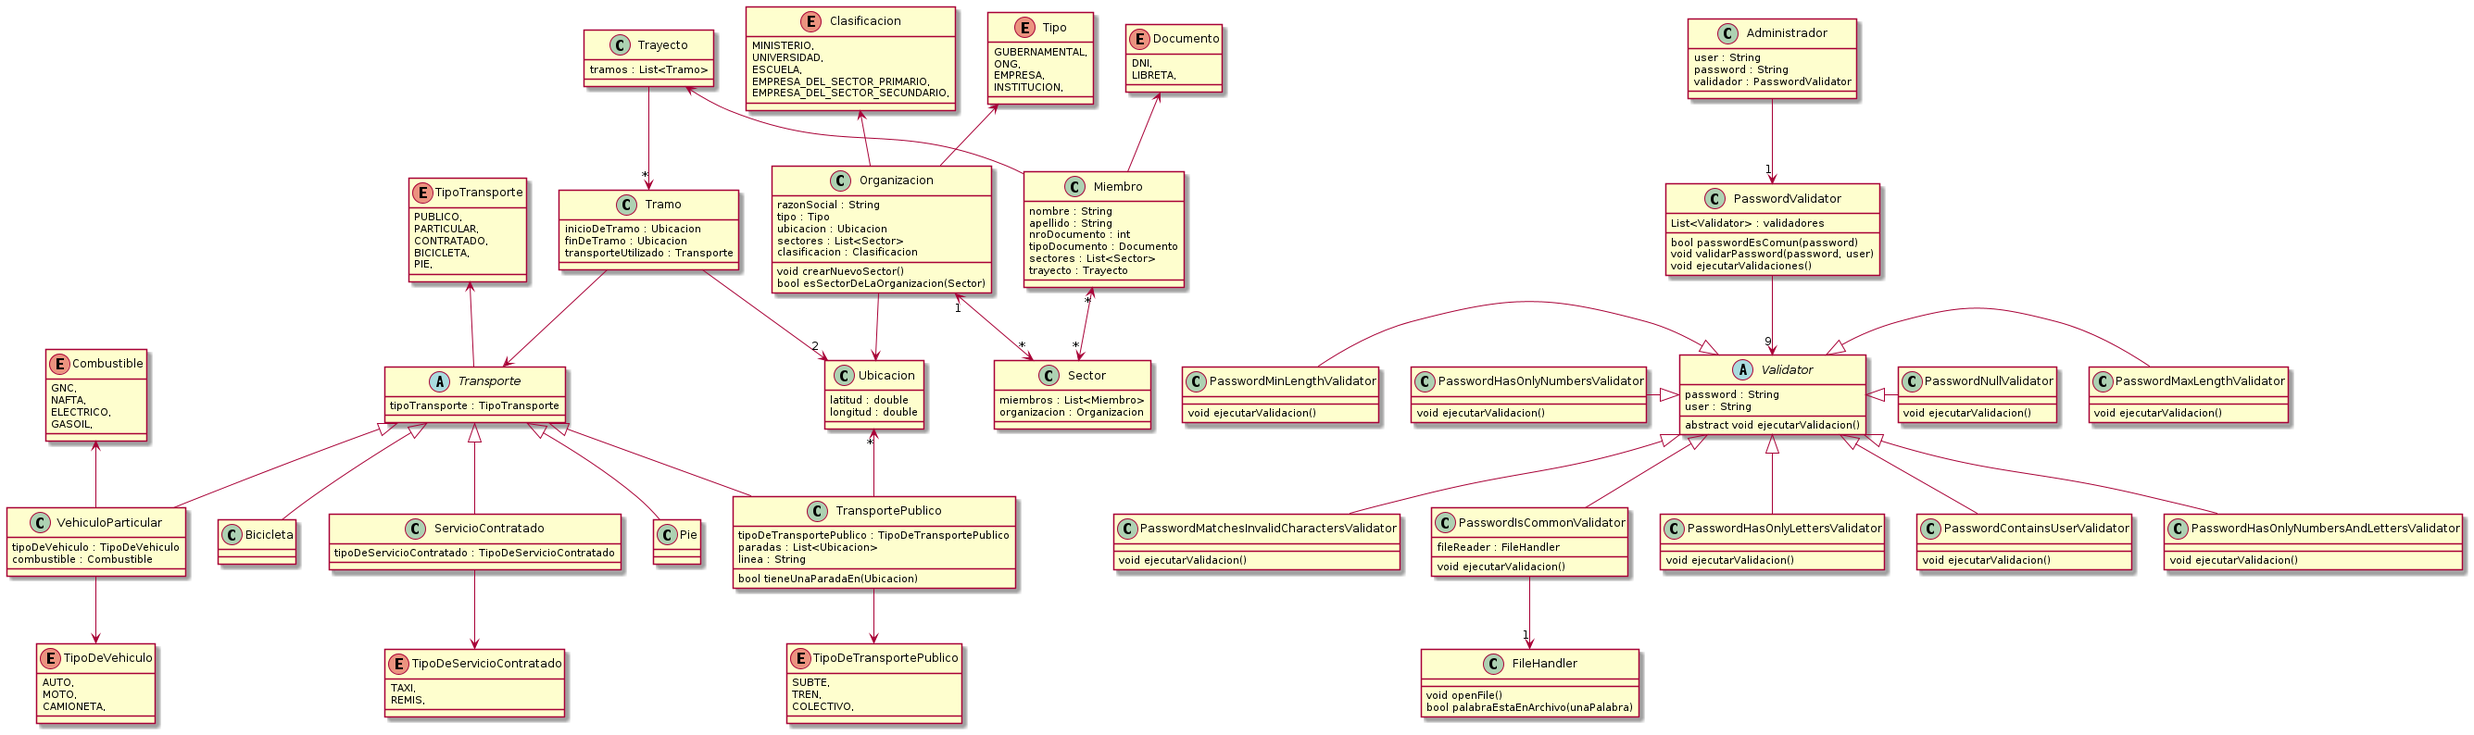
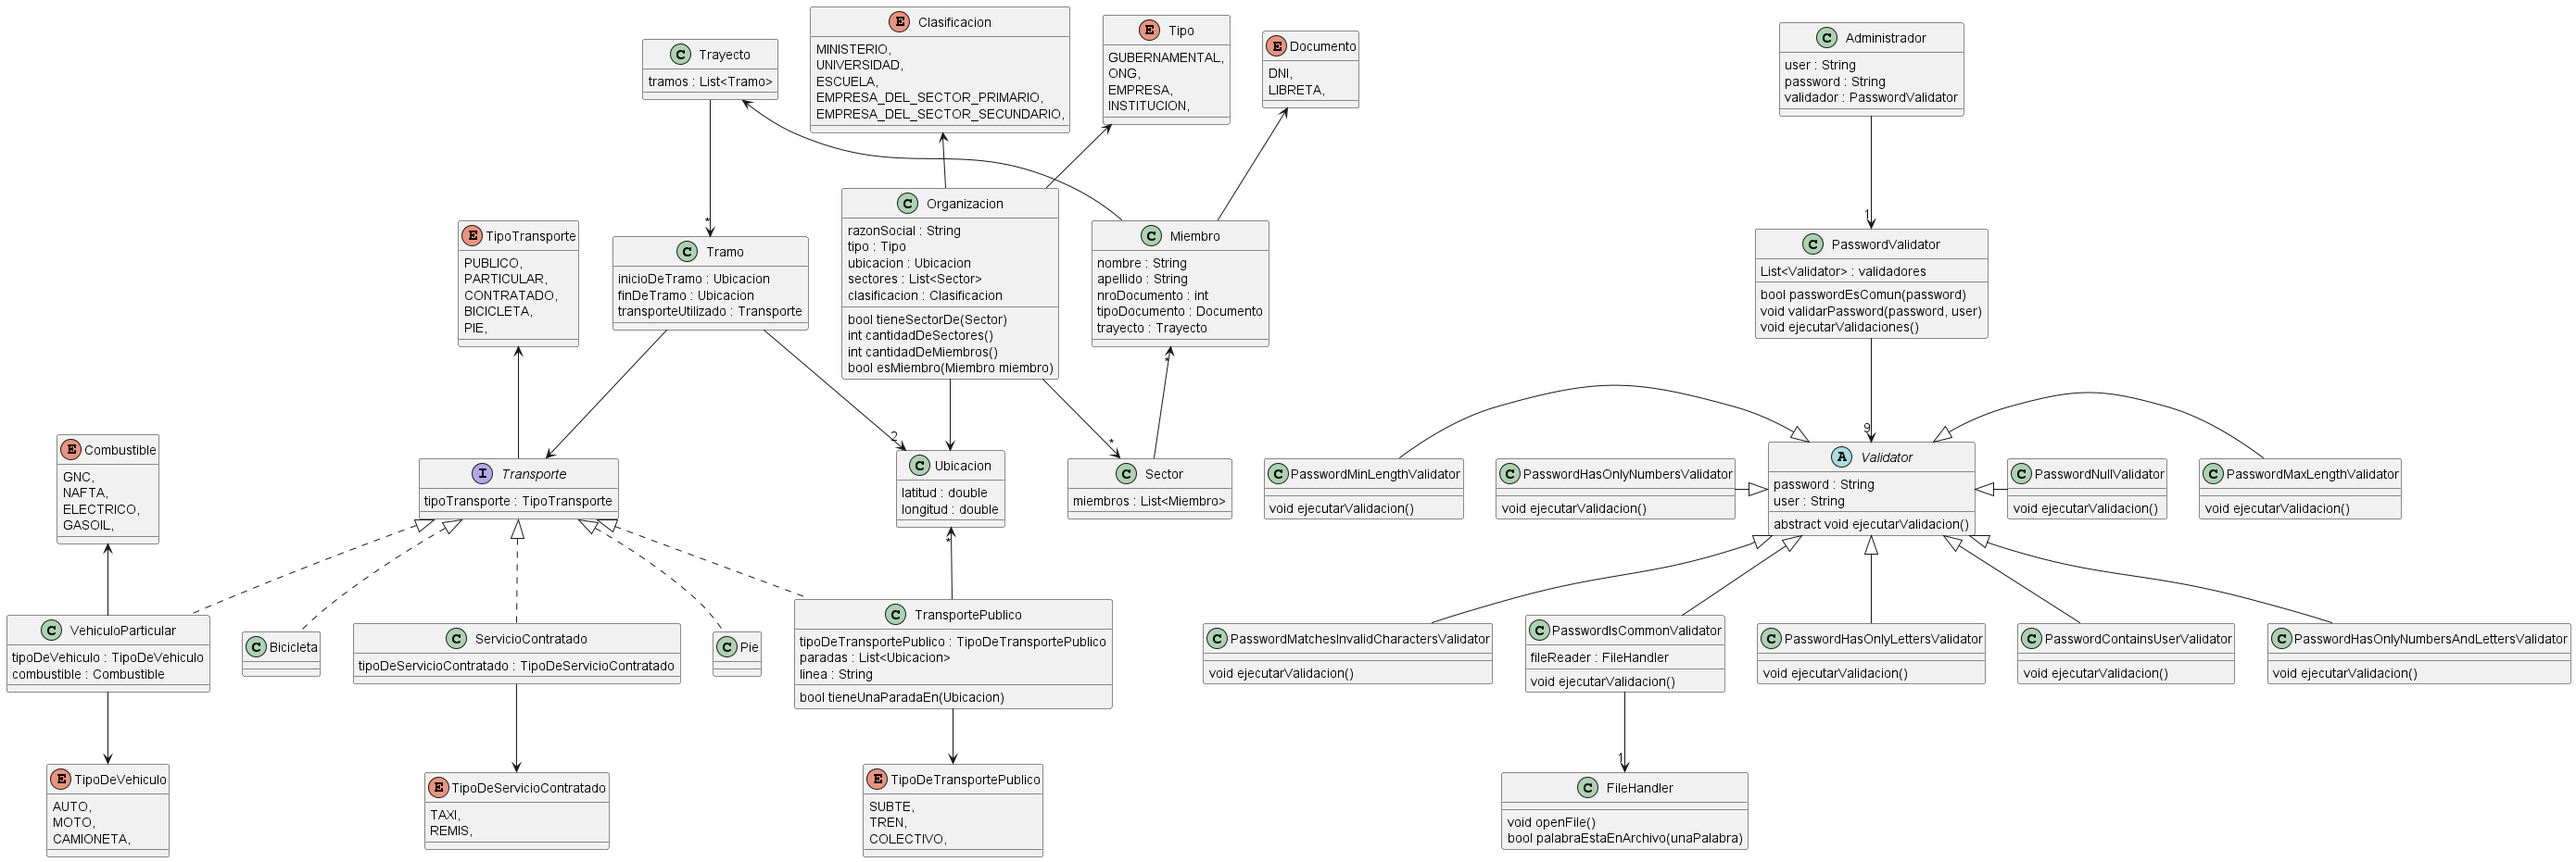
Modificado: Logica Organizacion-Sector-Miembro

diff --git a/src/test/java/domain/MiembroTests.java b/src/test/java/domain/MiembroTests.java
@@ -20,6 +20,7 @@ import java.util.HashSet;
 import java.util.List;
 
 import static org.junit.jupiter.api.Assertions.assertEquals;
+import static org.junit.jupiter.api.Assertions.assertTrue;
 
 public class MiembroTests {
   
@@ -36,9 +37,16 @@ public class MiembroTests {
     utn.addSector(unSector);
     utn.addSector(otroSector);
     org.addSector(unSectorOrgFalsa);
-    miembro1.addSector(unSector, utn);
-    miembro2.addSector(otroSector, utn);
-    miembro2.addSector(unSectorOrgFalsa,org);
+    // miembro1.addSector(unSector, utn);
+    unSector.addMiembro(miembro1);
+    utn.addSector(unSector);
+    // miembro2.addSector(otroSector, utn);
+    otroSector.addMiembro(miembro2);
+    utn.addSector(otroSector);
+    // miembro2.addSector(unSectorOrgFalsa,org);
+    unSectorOrgFalsa.addMiembro(miembro2);
+    org.addSector(unSectorOrgFalsa);
+    /*
     HashSet<Organizacion> organizaciones1 = new HashSet<>();
     organizaciones1.add(utn);
     HashSet<Organizacion> organizaciones2 = new HashSet<>();
@@ -46,6 +54,19 @@ public class MiembroTests {
     organizaciones2.add(org);
     assertEquals(miembro1.getOrganizaciones(), organizaciones1);
     assertEquals(miembro2.getOrganizaciones(), organizaciones2);
+    */
+    assertTrue(utn.esMiembro(miembro1));
+    assertTrue(utn.esMiembro(miembro2));
+    assertTrue(org.esMiembro(miembro2));
+  }
+
+  @Test
+  public void unMiembroSeCreaCorrectamente() {
+    Miembro miembro = unMiembro();
+    assertEquals(miembro.getNombre(), "Matias");
+    assertEquals(miembro.getApellido(), "Beorlegui");
+    assertEquals(miembro.getNumeroDeDocumento(), 47813065);
+    assertEquals(miembro.getTipoDeDocumento(), Documento.DNI);
   }
 
   @DisplayName("Instanciar: Miembro")

diff --git a/src/main/java/domain/miembro/Miembro.java b/src/main/java/domain/miembro/Miembro.java
@@ -11,7 +11,7 @@ public class Miembro {
   private Integer numeroDeDocumento;
   private Documento tipoDeDocumento;
   private Trayecto trayecto;
-  private HashSet<Organizacion> organizaciones = new HashSet<>();
+  // private HashSet<Organizacion> organizaciones = new HashSet<>();
   //Uso hashSet para que no se repitan las organizaciones
 
   public String getNombre() {
@@ -29,10 +29,11 @@ public class Miembro {
   public Documento getTipoDeDocumento() {
     return tipoDeDocumento;
   }
-
+  /*
   public HashSet<Organizacion> getOrganizaciones() {
     return organizaciones;
   }
+  */
 
   public Miembro(
       String nombre,
@@ -46,13 +47,14 @@ public class Miembro {
     this.tipoDeDocumento = tipoDeDocumento;
     this.trayecto = trayecto;
   }
-
+  /*
   public void addSector(Sector sector, Organizacion organizacion) {
     if (organizacion.tieneSectorDe(sector)) {
       sector.addMiembro(this);
       organizaciones.add(organizacion);
     }
   }
+  */
 
   public void setTrayecto(Trayecto trayecto) {
     this.trayecto = trayecto;

diff --git a/src/test/java/domain/TrayectoTests.java b/src/test/java/domain/TrayectoTests.java
@@ -2,6 +2,7 @@ package domain;
 
 import domain.organizacion.Clasificacion;
 import domain.organizacion.Organizacion;
+import domain.organizacion.Sector;
 import domain.organizacion.Tipo;
 import domain.transporte.Pie;
 import domain.transporte.TipoDeTransportePublico;
@@ -46,9 +47,12 @@ public class TrayectoTests {
   private Organizacion universidadTecnologicaNacionalFRBA() {
     Ubicacion ubicacionUtn = new Ubicacion(-34.659488779869484, -58.4671460833512);
     Organizacion organizacion = new Organizacion("UTN", Tipo.GUBERNAMENTAL, ubicacionUtn, Clasificacion.UNIVERSIDAD);
-    organizacion.crearNuevoSector();
-    organizacion.crearNuevoSector();
-    organizacion.crearNuevoSector();
+    // organizacion.crearNuevoSector();
+    // organizacion.crearNuevoSector();
+    // organizacion.crearNuevoSector();
+    organizacion.addSector(new Sector());
+    organizacion.addSector(new Sector());
+    organizacion.addSector(new Sector());
 
     return organizacion;
   }

diff --git a/src/main/java/domain/organizacion/Organizacion.java b/src/main/java/domain/organizacion/Organizacion.java
@@ -43,10 +43,11 @@ public class Organizacion {
       sectores.add(sector);
     }
   }
-
+  /*
   public void crearNuevoSector() {
     this.addSector(new Sector());
   }
+  */
 
   public List<Miembro> getMiembros() {
     return sectores
@@ -65,5 +66,9 @@ public class Organizacion {
 
   public Integer cantidadDeMiembros() {
     return this.getMiembros().size();
+  }
+
+  public Boolean esMiembro(Miembro miembro) {
+    return this.getMiembros().contains(miembro);
   }
 }

diff --git a/src/test/java/domain/OrganizacionTests.java b/src/test/java/domain/OrganizacionTests.java
@@ -32,8 +32,8 @@ public class OrganizacionTests {
     organizacion.addSector(new Sector());
     organizacion.addSector(new Sector());
     Miembro miembro = new Miembro("Alejo", "Goltzman", 43994311, Documento.DNI, casaHastaUTN());
-    miembro.addSector(unSectorDeRRHH, organizacion);
-
+    //miembro.addSector(unSectorDeRRHH, organizacion);
+    unSectorDeRRHH.addMiembro(miembro);
     return organizacion;
   }
 

diff --git a/src/main/java/domain/organizacion/Sector.java b/src/main/java/domain/organizacion/Sector.java
@@ -6,9 +6,8 @@ import java.util.List;
 
 public class Sector {
   //private Organizacion organizacion;
-  /*    Hago que la organizacion conozca los sectores,
+  /*    Hago que la organizacion conozca los sectores y
       que los sectores conozcan a los miembros
-      y que los miembros conozcan las organizaciones donde trabaja
   */
   private List<Miembro> miembros;
 
